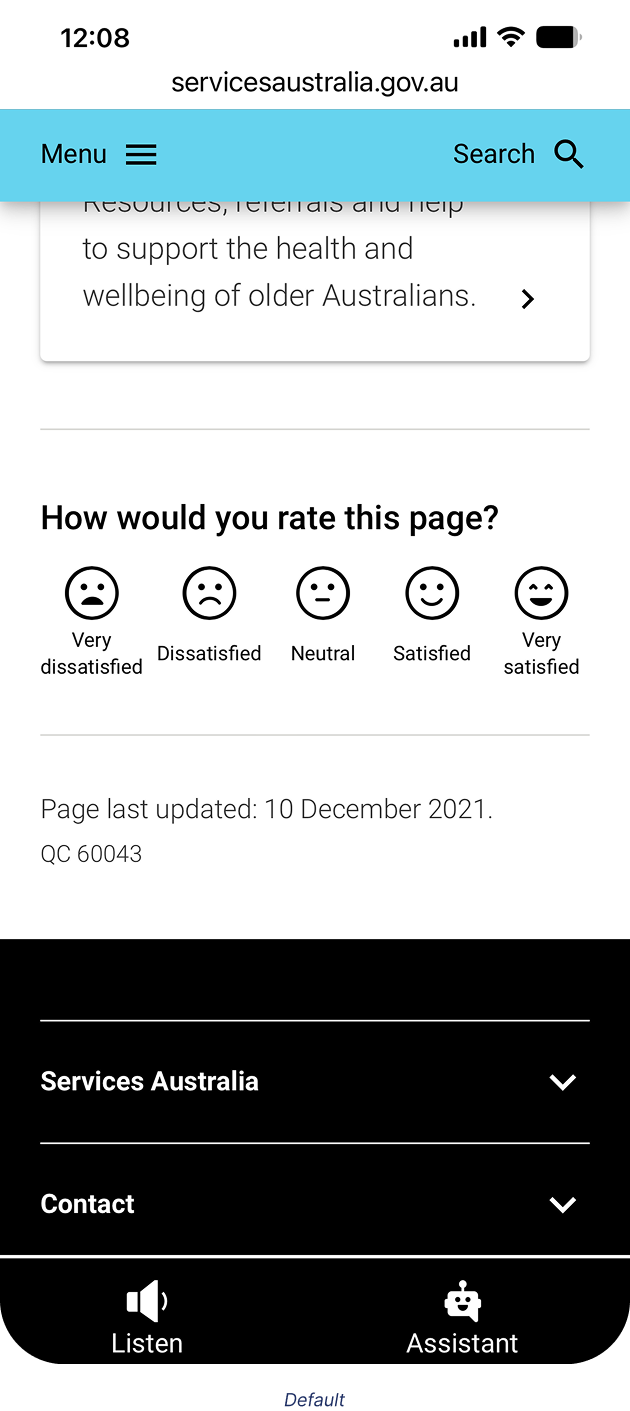
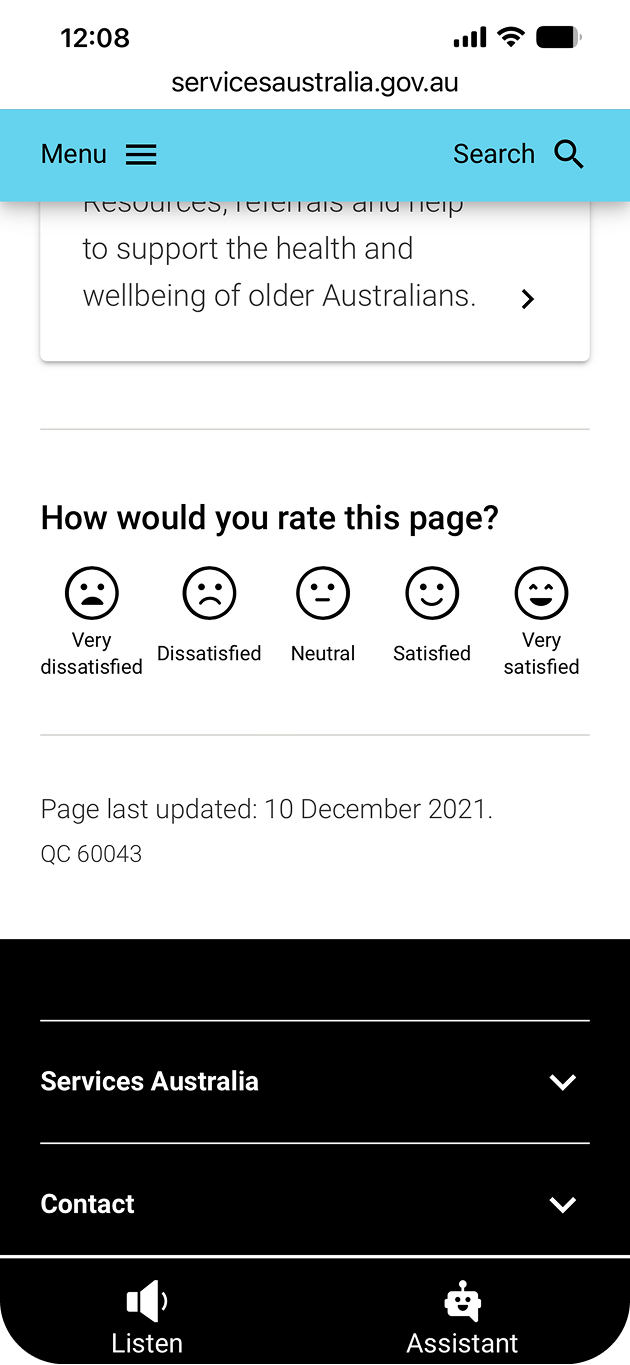
Finish page poll

diff --git a/pagepoll.html b/pagepoll.html
@@ -19,7 +19,7 @@
       <a href="pagepoll.html"><b>Page Poll Redesign</b></a>
     </header>
     <main class="content-page">
-      <h1>Page Poll Redesign</h1>
+      <h1 id="titlep">Page Poll Redesign</h1>
       <div class="container">
         <div class="sub-container-3">
           <p class="subheading"><b>OVERVIEW</b></p>
@@ -54,7 +54,7 @@
           </div>
         </div>
       </div>
-      <div class="container">
+      <div class="image-container">
         <div class="sub-container-3 caption">
           <img src="assets/page-poll/final-1.png" alt="page-poll-default" />
           <p><i>Default</i></p>
@@ -95,7 +95,7 @@
           </li>
         </ul>
         <p>Baseline:</p>
-        <div class="container">
+        <div class="image-container">
           <img
             src="assets/page-poll/baseline-1.png"
             alt="baseline default page poll"
@@ -310,8 +310,102 @@
             </p>
           </li>
         </ul>
+        <div class="icon-heading">
+          <img src="assets/icons/Check box.svg" />
+          <h4>Concepts for testing</h4>
+        </div>
+        <p><b>Concept 1: Emoticon scale</b></p>
+        <p>Located below content on the page</p>
+        <div class="image-container">
+          <img
+            src="assets/page-poll/c1d.png"
+            alt="concept 1 emoticon scale default"
+          />
+          <img
+            src="assets/page-poll/c1p.png"
+            alt="concept 1 emoticon scale pressed"
+          />
+        </div>
+        <p><b>Concept 2: Emoticon scale with labels</b></p>
+        <p>Located below content on the page</p>
+        <div class="image-container">
+          <img
+            src="assets/page-poll/c2d.png"
+            alt="concept 2 emoticon scale with labels default"
+          />
+          <img
+            src="assets/page-poll/c2p.png"
+            alt="concept 2 emoticon scale with labels pressed"
+          />
+        </div>
+        <p><b>Concept 3: Toolbar</b></p>
+        <p>Single button below content on page</p>
+        <p>Additional button in the toolbar</p>
+        <p>Both open toolbar revealing emoticon scale and submit button</p>
+        <!-- PROGRESS POINT -->
+        <div class="grid-container">
+          <div class="sub-container-3 caption">
+            <img
+              src="assets/page-poll/c3in-page.png"
+              alt="toolbar mobile in page"
+            />
+            <p><i>Mobile: in-page</i></p>
+          </div>
+          <div class="sub-container-3 caption">
+            <img
+              src="assets/page-poll/c3default.png"
+              alt="toolbar mobile default"
+            />
+            <p><i>Mobile: default</i></p>
+          </div>
+          <div class="sub-container-3 caption">
+            <img
+              src="assets/page-poll/c3in-page.png"
+              alt="toolbar mobile pressed"
+            />
+            <p><i>Mobile: pressed</i></p>
+          </div>
+          <div class="sub-container-3 caption">
+            <img
+              src="assets/page-poll/c3confirmed.png"
+              alt="toolbar mobile confirmation"
+            />
+            <p><i>Mobile: confirmation state</i></p>
+          </div>
+        </div>
+        <div class="image-container">
+          <div class="sub-container-3 caption">
+            <img
+              src="assets/page-poll/c3dtin-page.png"
+              alt="toolbar desktop in page"
+            />
+            <p><i>Desktop: in-page</i></p>
+          </div>
+          <div class="sub-container-3 caption">
+            <img
+              src="assets/page-poll/c3dtdefault.png"
+              alt="toolbar default desktop"
+            />
+            <p><i>Desktop: default</i></p>
+          </div>
+        </div>
+        <p><b>Baseline (live site)</b></p>
+        <p>Yes/No buttons below content on the scale</p>
+        <div class="image-container">
+          <img
+            src="assets/page-poll/baseline-1.png"
+            alt="baseline default page poll"
+          />
+          <img
+            src="assets/page-poll/baseline-Yes-active.png"
+            alt="baseline page poll, yes selected"
+          />
+          <img
+            src="assets/page-poll/baseline-No-active.png"
+            alt="baseline page poll, no selected"
+          />
+        </div>
       </div>
-      <!-- PROGRESS POINT -->
       <div class="content-container" id="testing">
         <h3>Testing</h3>
         <p>

diff --git a/css/style.css b/css/style.css
@@ -14,8 +14,18 @@
   --space-40: 2.5rem;
 }
 
+/* Ensure Safari / iOS do not auto-scale text and rem basis is consistent */
+html {
+  height: 100%;
+  font-size: 18px;
+
+  scroll-behavior: smooth;
+  --webkit-text-size-adjust: 100%;
+  -ms-text-size-adjust: 100%;
+}
+
 * {
-  font-size: 1.125rem;
+  box-sizing: border-box;
 }
 
 *,
@@ -45,7 +55,7 @@ body {
 p,
 a {
   font-family: "Inter", sans-serif;
-  font-weight: 400;
+  font-weight: 300;
   line-height: 1.75rem;
   color: var(--font-main);
 }
@@ -255,7 +265,23 @@ main {
   margin-top: 24px;
 }
 
-.container img {
+.image-container {
+  display: flex;
+  flex-direction: row;
+  justify-content: space-between;
+  gap: 12px;
+  margin-top: 8px;
+  align-items: start;
+}
+
+.grid-container {
+  display: grid;
+  grid-template-columns: 1fr 1fr 1fr 1fr;
+  gap: 12px;
+}
+
+.container img,
+.image-container img {
   flex: 1;
   min-width: 0;
   width: 0;
@@ -372,6 +398,10 @@ th {
 th {
   font-weight: 700;
   background-color: var(--accent);
+}
+
+#titlep {
+  padding-bottom: 40px;
 }
 
 /* Other projects links */
@@ -524,7 +554,8 @@ footer p {
     gap: 16px;
   }
 
-  .container {
+  .container,
+  .image-container {
     flex-direction: column;
     justify-content: first baseline;
     gap: 24px;
@@ -543,6 +574,12 @@ footer p {
     width: 100%;
   }
 
+  .grid-container {
+    display: grid;
+    grid-template-columns: 1fr 1fr;
+    grid-template-rows: 1fr 1fr;
+    gap: 12px;
+  }
   .container img {
     width: 50%;
   }
